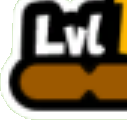
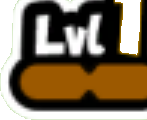
fix(anim01): the round-2 blind critic findings that were ours to fix
Round 1 called all five pairs, round 2 all four. Most of what it called on is
chrome that is on Ruihan open decision list and is deliberately left alone, but
three of its findings were defects introduced by the extraction pass or by the
comparison harness, and those are fixed here.

The level plaque was clipped. The cut stopped at the numeral left edge and the
numeral was then drawn clear of it, so the white outline ended in the middle of
the plaque with the numeral and the wood right end hanging outside it. The cut
now runs the plaque full width with the numeral dropped by its own yellow,
which keeps the wood rounded end, and the drawn numeral goes back into the hole
that leaves, carrying the plaque black keyline and white halo so the silhouette
runs unbroken.

The control labels were set at one size and REWIND overhung its tile by 5px on
each side. The client fits each label to its own tile, so REWIND and PAUSE are
set down like AUTOPLAY already was.

The stills of our own stage were taken of the calculator inline pane, so every
one of them carried a black tool strip along the bottom and an uneven
letterbox. shoot_ours.py now puts the stage into its fullscreen presentation,
which is the one the comparison is against.

diff --git a/src/app/ui/shell/simulation/battle-animation/battle-animation-stage.component.scss b/src/app/ui/shell/simulation/battle-animation/battle-animation-stage.component.scss
@@ -493,7 +493,7 @@ $extracted: "/assets/art/Extracted";
   height: 1.67em;
   margin-bottom: 0.02em;
   display: block;
-  background: url("#{$extracted}/level-plaque.png") left bottom / 1.83em auto no-repeat;
+  background: url("#{$extracted}/level-plaque.png") left bottom / 2.04em 1.67em no-repeat;
   line-height: 1;
   pointer-events: none;
 }
@@ -510,15 +510,27 @@ $extracted: "/assets/art/Extracted";
  * On the reference it overhangs the cap upwards, which is why the plaque's box
  * is taller than its art.
  */
+/*
+ * The numeral butts against the cut's right edge and overlaps it, so the two
+ * read as one silhouette. It carries the plaque's black keyline and, outside
+ * that, the same white halo the cut wears, because in the client the outline
+ * runs unbroken around sign, numeral and wood; drawing the numeral clear of the
+ * cut left the outline stopping dead in the middle of the plaque.
+ */
 .anim-pet-level-num {
   position: absolute;
-  right: 0;
+  left: 1.41em;
   bottom: 0.5em;
-  font-size: 1.28em;
+  font-size: 1.06em;
   font-weight: 700;
   color: #ffc21c;
-
-  @include keyline(0.055em, #130b04);
+  text-shadow:
+    0.1em 0 0 #fff, -0.1em 0 0 #fff, 0 0.1em 0 #fff, 0 -0.1em 0 #fff,
+    0.075em 0.075em 0 #fff, -0.075em 0.075em 0 #fff,
+    0.075em -0.075em 0 #fff, -0.075em -0.075em 0 #fff,
+    0.07em 0 0 #130b04, -0.07em 0 0 #130b04, 0 0.07em 0 #130b04, 0 -0.07em 0 #130b04,
+    0.05em 0.05em 0 #130b04, -0.05em 0.05em 0 #130b04,
+    0.05em -0.05em 0 #130b04, -0.05em -0.05em 0 #130b04;
 }
 
 /*
@@ -1148,18 +1160,28 @@ $extracted: "/assets/art/Extracted";
   font-family: inherit;
 }
 
+/*
+ * The client fits each label to its tile rather than setting them all the same:
+ * REWIND, PAUSE and AUTOPLAY come out about a 6px cap on a 960 wide frame while
+ * FAST and SKIP get about 9px. One size for all overhung the 37px REWIND tile
+ * by 5px on each side.
+ */
 .anim-ctl-label {
   margin-top: -0.1em;
-  font-size: 0.78em;
+  font-size: 0.86em;
   font-weight: 700;
   letter-spacing: -0.01em;
   line-height: 1;
   white-space: nowrap;
 }
 
-/* AUTOPLAY is the one word that has to be set down to fit its tile. */
+/* The long words are set down so they stay inside their tile. */
 .anim-ctl-label-long {
   font-size: 0.56em;
+}
+
+.anim-ctl-label-mid {
+  font-size: 0.64em;
 }
 
 /* The glyphs are the client's own printing, lifted off its bar. */
@@ -1167,6 +1189,20 @@ $extracted: "/assets/art/Extracted";
   width: 1.5em;
   height: 1.25em;
   object-fit: contain;
+}
+
+/*
+ * EXIT is ours, not the client's: its bar has no way out because a replay is
+ * inside a shop run. There is nothing to cut for it, so it is set as a cross in
+ * the game's own face at the weight the cut glyphs carry.
+ */
+.anim-ctl-cross {
+  display: flex;
+  align-items: center;
+  justify-content: center;
+  font-size: 1.1em;
+  font-weight: 700;
+  line-height: 1;
 }
 
 /* Engaged is a dimmed glyph, the treatment the real bar uses (checklist 16). */

diff --git a/src/app/ui/shell/simulation/battle-animation/battle-animation-stage.component.html b/src/app/ui/shell/simulation/battle-animation/battle-animation-stage.component.html
@@ -38,11 +38,11 @@
       <div class="anim-controls" [style.opacity]="view.controls"
         [class.anim-controls-gone]="view.controls === 0">
         <button type="button" class="anim-ctl" data-anim-control="rewind" (click)="onRewind()">
-          <span class="anim-ctl-label">REWIND</span>
+          <span class="anim-ctl-label anim-ctl-label-mid">REWIND</span>
           <img class="anim-ctl-glyph" [src]="glyph.rewind" alt="" aria-hidden="true" />
         </button>
         <button type="button" class="anim-ctl" data-anim-control="play" (click)="togglePlay()">
-          <span class="anim-ctl-label">{{ playing ? 'PAUSE' : 'PLAY' }}</span>
+          <span class="anim-ctl-label" [class.anim-ctl-label-mid]="playing">{{ playing ? 'PAUSE' : 'PLAY' }}</span>
           <img class="anim-ctl-glyph" [src]="playing ? glyph.pause : glyph.play" alt="" aria-hidden="true" />
         </button>
         <button type="button" class="anim-ctl" data-anim-control="autoplay"
@@ -280,7 +280,7 @@
         <div class="anim-outro-actions" [style.opacity]="outro.face">
           <button type="button" class="anim-ctl anim-outro-action" data-anim-outro="rewind"
             (click)="onRewind()">
-            <span class="anim-ctl-label">REWIND</span>
+            <span class="anim-ctl-label anim-ctl-label-mid">REWIND</span>
             <img class="anim-ctl-glyph" [src]="glyph.rewind" alt="" aria-hidden="true" />
           </button>
           <button type="button" class="anim-ctl anim-outro-action" data-anim-outro="exit"

diff --git a/experiments/01-fight-animation-parity/harness/extract_assets.py b/experiments/01-fight-animation-parity/harness/extract_assets.py
@@ -60,8 +60,12 @@ ASSETS = {
     # nothing but green.
     "level-plaque": (
         "f11-jump-african-wild-dog/r_003_0003000.png",
-        [494, 376, 45.5, 40],
-        {"palette_only": True, "drop_green": True},
+        [494, 376, 52, 40],
+        # The numeral goes too: it is the one part that changes, and dropping it
+        # by its own yellow leaves the wood's rounded right end in the cut
+        # instead of a straight edge where the box stopped. The hole it leaves
+        # in the cap is exactly where the stage draws the numeral back.
+        {"palette_only": True, "drop_green": True, "drop_yellow": True},
     ),
     # The replay bar. The tile itself is a flat translucent rectangle and is
     # drawn by the stylesheet from the colour measured here; what is cut is the
@@ -216,6 +220,13 @@ def cut(name, still, css_box, options):
     if not options.get("keep_background"):
         if not options.get("palette_only"):
             piece = flood_background(piece, options.get("tolerance", 60))
+        if options.get("drop_yellow"):
+            pixels = piece.load()
+            for x in range(piece.size[0]):
+                for y in range(piece.size[1]):
+                    r, g, b, a = pixels[x, y]
+                    if a and r > 170 and g > 120 and b < 110 and r - b > 90:
+                        pixels[x, y] = (0, 0, 0, 0)
         if options.get("drop_green"):
             # The cloud sits in front of the forest band, and the notches
             # between its lobes are pockets of leaf green the border walk cannot
